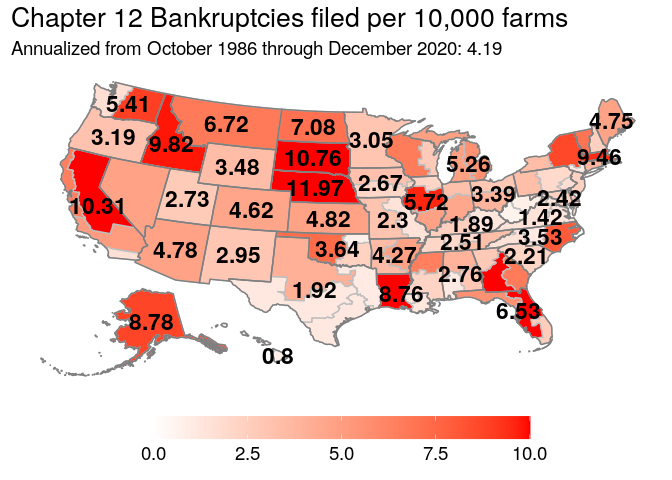
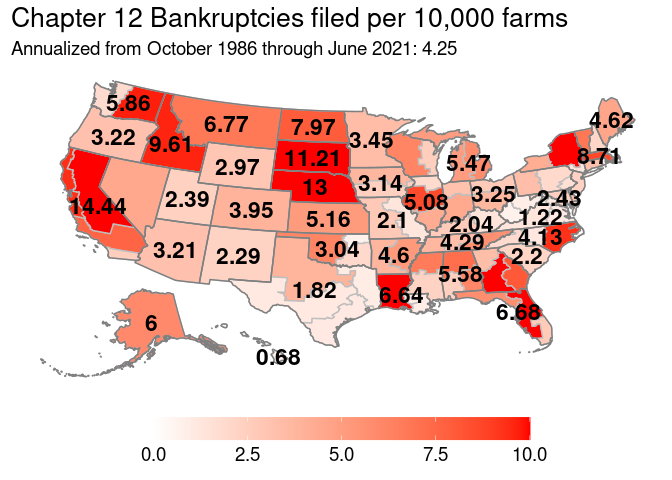
eda maps through q2 2021

diff --git a/2-eda/2-eda-maps.md b/2-eda/2-eda-maps.md
@@ -1,5 +1,4 @@
-Most recent data
-================
+# Most recent data
 
 <img src="2-eda-maps_files/figure-markdown_github/recent-1.png" width="100%" height="100%" />
 
@@ -26,8 +25,7 @@ Raw data of bankruptcy filings since BAPCPA was enacted:
 
 <img src="2-eda-maps_files/figure-markdown_github/bapcpa-count-1.png" width="100%" height="100%" />
 
-Historical
-==========
+# Historical
 
 Since chapter 12 was an available bankruptcy option for farmers in
 October of 1986:
@@ -42,8 +40,4 @@ Historical rates of bankruptcy, animated (note, Arkansas changed its
 reporting structure in 2018 going from reporting its districts
 separately to combined reporting):
 
-<img src="2-eda-maps_files/figure-markdown_github/animate-albers-1.gif" width="100%" height="100%" />
-
 Animated, but with red scale:
-
-<img src="2-eda-maps_files/figure-markdown_github/animate-albers-red-1.gif" width="100%" height="100%" />
